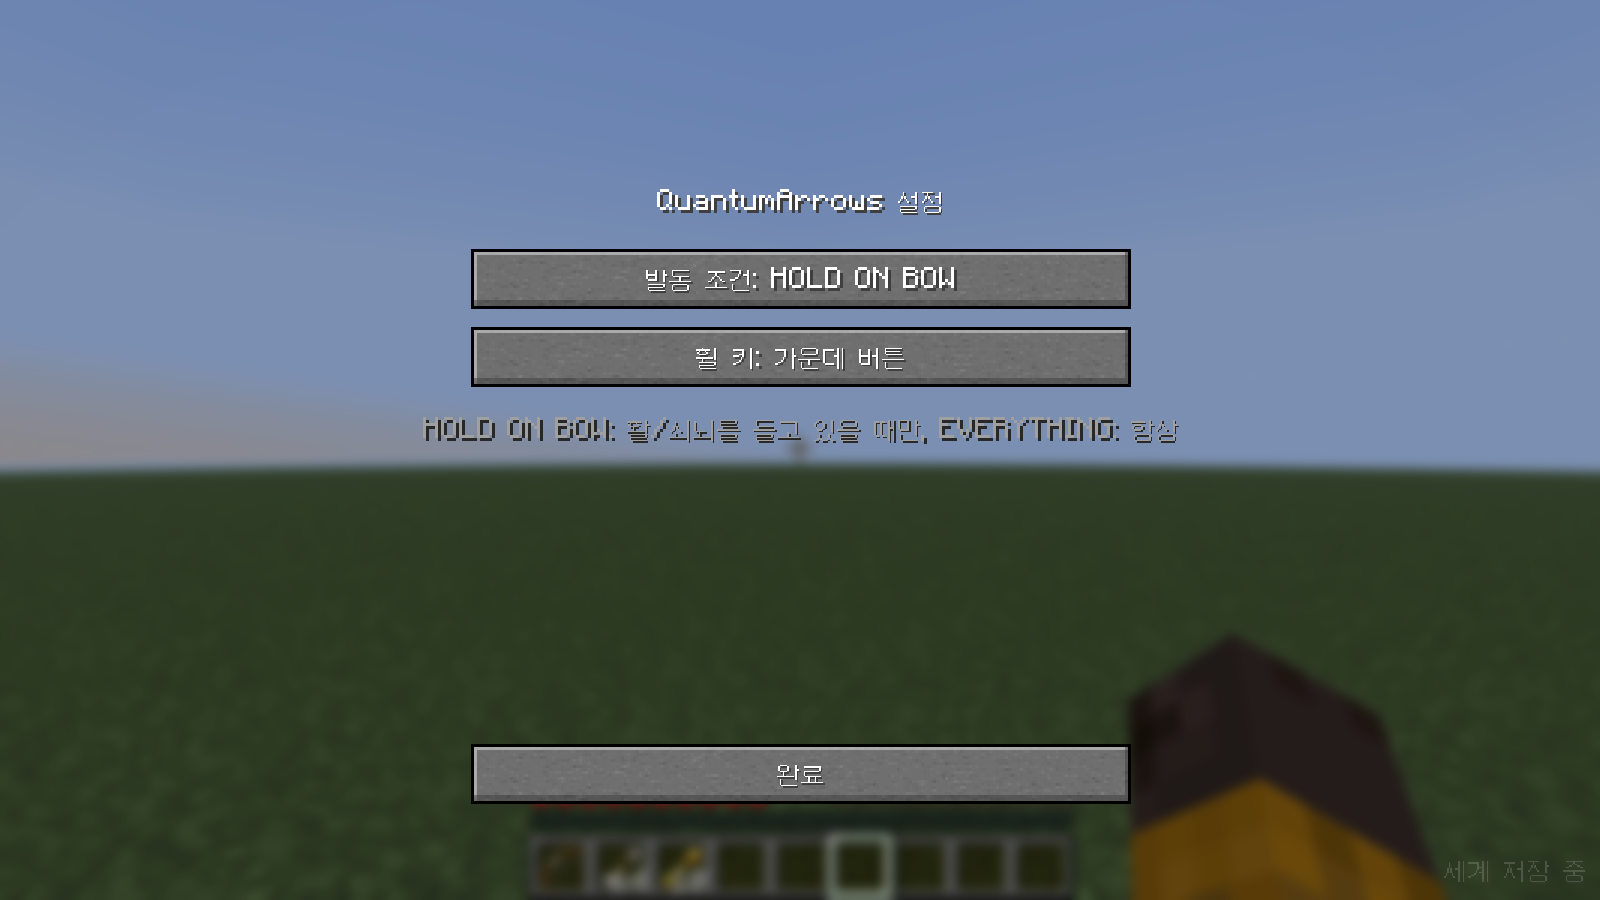
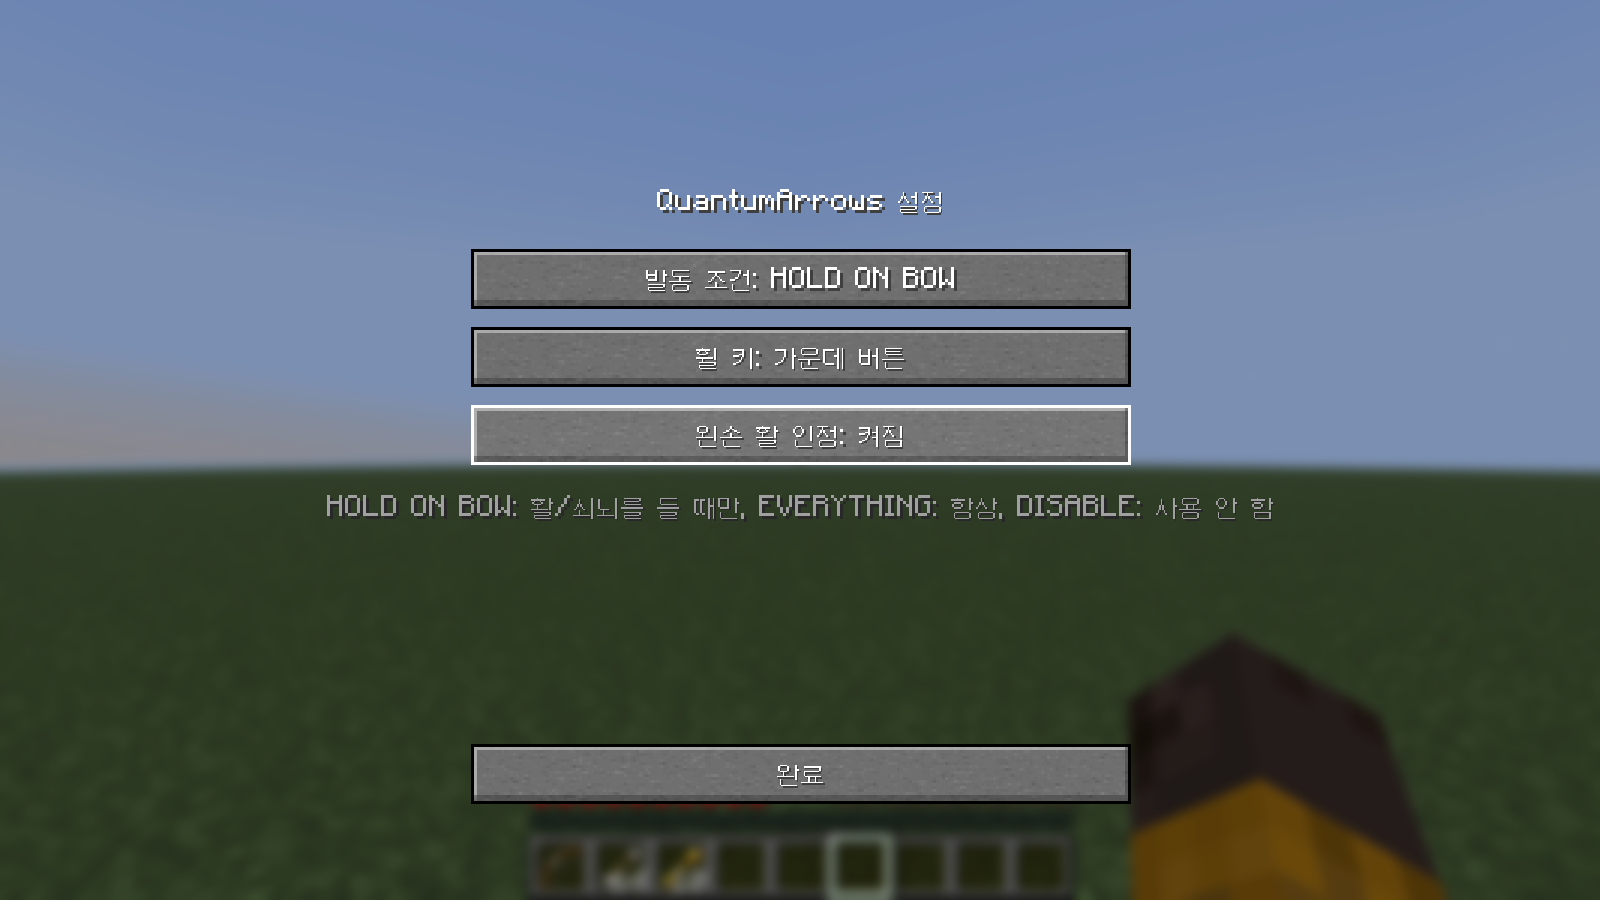
Add offhand bow setting
When off, only a bow or crossbow in the main hand counts for HOLD ON BOW.

Claude-Session: https://claude.ai/code/session_01XbXCyv1xLQTMmMdbS9f379

Changed region(s): [[0.2188, 0.4356, 0.75, 0.5911], [0.375, 0.56, 0.4062, 0.5911]]

diff --git a/mod/src/main/java/com/quantumarrows/client/QuantumArrowsSettingsScreen.java b/mod/src/main/java/com/quantumarrows/client/QuantumArrowsSettingsScreen.java
@@ -47,6 +47,11 @@ public final class QuantumArrowsSettingsScreen extends Screen {
             keyButton.setMessage(keyLabel());
         }).bounds(x, y + WIDGET_HEIGHT + SPACING, WIDGET_WIDTH, WIDGET_HEIGHT).build());
 
+        addRenderableWidget(CycleButton.onOffBuilder(config.offhandBow)
+                .create(x, y + (WIDGET_HEIGHT + SPACING) * 2, WIDGET_WIDTH, WIDGET_HEIGHT,
+                        Component.translatable("quantumarrows.settings.offhand"),
+                        (button, value) -> config.offhandBow = value));
+
         addRenderableWidget(Button.builder(CommonComponents.GUI_DONE, button -> onClose())
                 .bounds(x, height - 52, WIDGET_WIDTH, WIDGET_HEIGHT).build());
     }
@@ -91,7 +96,7 @@ public final class QuantumArrowsSettingsScreen extends Screen {
         super.extractRenderState(graphics, mouseX, mouseY, partialTick);
         graphics.centeredText(font, title, width / 2, height / 4 - 12, 0xFFFFFFFF);
         graphics.centeredText(font, Component.translatable("quantumarrows.settings.activation.hint"),
-                width / 2, height / 4 + 8 + (WIDGET_HEIGHT + SPACING) * 2 + 4, 0xFFA0A0A0);
+                width / 2, height / 4 + 8 + (WIDGET_HEIGHT + SPACING) * 3 + 4, 0xFFA0A0A0);
     }
 
     @Override

diff --git a/mod/src/main/java/com/quantumarrows/client/ArrowInventory.java b/mod/src/main/java/com/quantumarrows/client/ArrowInventory.java
@@ -33,12 +33,12 @@ public final class ArrowInventory {
         return (slot >= 0 && slot < MAIN_SIZE) || slot == OFFHAND;
     }
 
-    /** The bow/crossbow the player holds, main hand first, or {@code null}. */
-    public static ItemStack heldWeapon(LocalPlayer player) {
+    /** The bow/crossbow the player holds, main hand first (offhand only if allowed), or {@code null}. */
+    public static ItemStack heldWeapon(LocalPlayer player, boolean includeOffhand) {
         if (player.getMainHandItem().getItem() instanceof ProjectileWeaponItem) {
             return player.getMainHandItem();
         }
-        if (player.getOffhandItem().getItem() instanceof ProjectileWeaponItem) {
+        if (includeOffhand && player.getOffhandItem().getItem() instanceof ProjectileWeaponItem) {
             return player.getOffhandItem();
         }
         return null;

diff --git a/mod/src/main/java/com/quantumarrows/client/QuantumArrowsClient.java b/mod/src/main/java/com/quantumarrows/client/QuantumArrowsClient.java
@@ -42,7 +42,7 @@ public final class QuantumArrowsClient implements ClientModInitializer {
         if (config.activation == QuantumArrowsConfig.Activation.DISABLE) {
             return;
         }
-        ItemStack weapon = ArrowInventory.heldWeapon(minecraft.player);
+        ItemStack weapon = ArrowInventory.heldWeapon(minecraft.player, config.offhandBow);
         if (weapon == null && config.activation != QuantumArrowsConfig.Activation.EVERYTHING) {
             // Not active: leave the clicks alone so the key keeps its other bindings' behavior.
             return;

diff --git a/mod/src/main/java/com/quantumarrows/client/QuantumArrowsConfig.java b/mod/src/main/java/com/quantumarrows/client/QuantumArrowsConfig.java
@@ -50,6 +50,8 @@ public final class QuantumArrowsConfig {
 
     public int targetSlot = DEFAULT_TARGET_SLOT;
     public Activation activation = Activation.HOLD_ON_BOW;
+    /** Whether a bow or crossbow held in the offhand counts for {@link Activation#HOLD_ON_BOW}. */
+    public boolean offhandBow = true;
 
     public static QuantumArrowsConfig load() {
         Path path = path();
